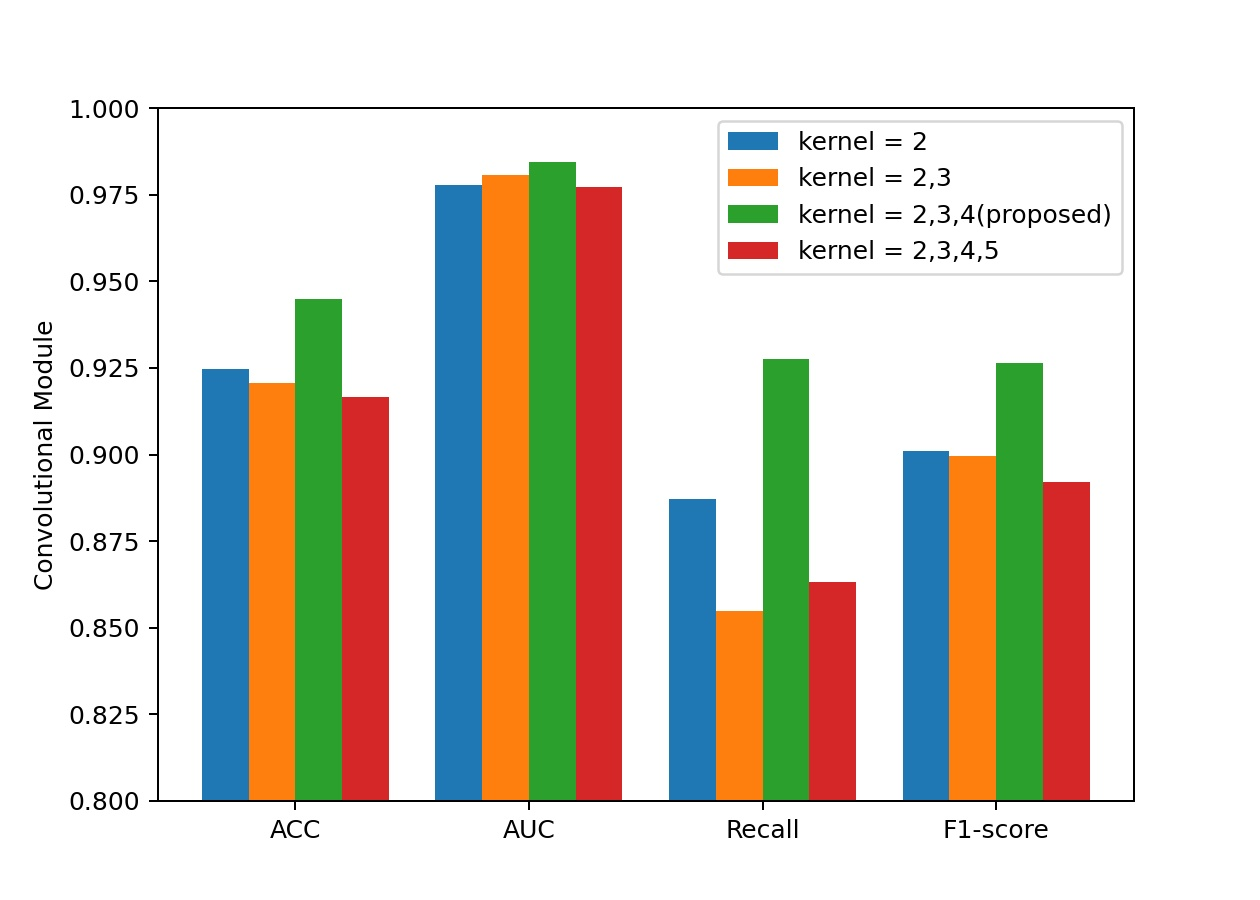
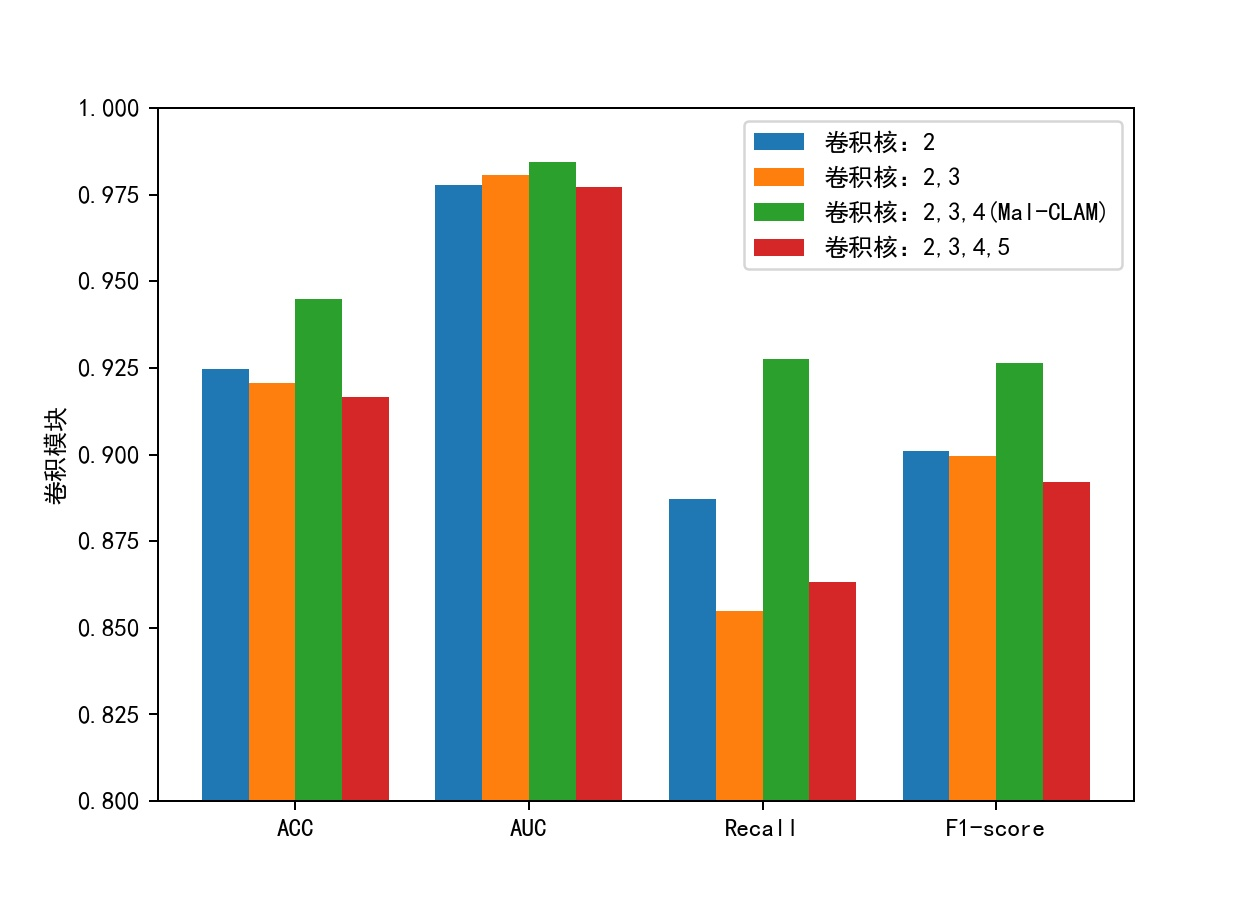
修改大论文后

diff --git a/model/modenl.py b/model/modenl.py
@@ -32,7 +32,7 @@ tf.compat.v1.keras.backend.set_session(tf.compat.v1.Session(config=config))
 # set_session(tf.compat.v1.Session(config=config))
 
 #超参数
-max_length = 500
+max_length = 1000
 
 class ClassifyGenerator(keras.utils.Sequence):
     'Generates data for Keras'
@@ -102,8 +102,6 @@ class Model():
         if model_path is None:
             self.params_input = Input(shape=(max_length, 102), name="input_layer")  # (?,1000,102)
 
-            # self.atten = Attention()([self.params_input,self.params_input])
-
             # 原来的模型
             self.x = BatchNormalization(name="batch_normalization_1")(self.params_input)
 
@@ -111,41 +109,42 @@ class Model():
             self.x_1 = Conv1D(128, 2, strides=1, activation="sigmoid", padding='same')(self.x)
             self.gated_0 = Multiply()([self.x_0, self.x_1])
 
-            self.y_0 = Conv1D(128, 3, strides=1, padding='same')(self.x)
-            self.y_1 = Conv1D(128, 3, strides=1, activation="sigmoid", padding='same')(self.x)
-            self.gated_1 = Multiply()([self.y_0, self.y_1])
-            # self.gated_1 = Average()([self.y_0, self.y_1])
+            # self.y_0 = Conv1D(128, 3, strides=1, padding='same')(self.x)
+            # self.y_1 = Conv1D(128, 3, strides=1, activation="sigmoid", padding='same')(self.x)
+            # self.gated_1 = Multiply()([self.y_0, self.y_1])
+            # # self.gated_1 = Average()([self.y_0, self.y_1])
+            #
+            # self.k_0 = Conv1D(128, 4, strides=1, padding='same')(self.x)
+            # self.k_1 = Conv1D(128, 4, strides=1, activation="sigmoid", padding='same')(self.x)
+            # self.gated_2 = Multiply()([self.k_0, self.k_1])
 
-            self.k_0 = Conv1D(128, 4, strides=1, padding='same')(self.x)
-            self.k_1 = Conv1D(128, 4, strides=1, activation="sigmoid", padding='same')(self.x)
-            self.gated_2 = Multiply()([self.k_0, self.k_1])
+            # self.cat_gate = Concatenate()([self.gated_0, self.gated_1, self.gated_2])
+            self.inputData = BatchNormalization(name="batch_normalization_2")(self.gated_0)
 
-            self.cat_gate = Concatenate()([self.gated_0, self.gated_1, self.gated_2])
-            self.inputData = BatchNormalization(name="batch_normalization_2")(self.cat_gate)
-
-            # 改进1  自编码器
-            # self.encode_input = Average()([self.params_input, self.inputData])
+            # # 改进1  自编码器
+            # # self.encode_input = Average()([self.params_input, self.inputData])
             self.encode_input = GlobalMaxPooling1D()(self.params_input)
-            self.encoder_1 = Dense(64, activation='sigmoid')(self.encode_input)
-            self.en_dropout_1 = Dropout(0.5)(self.encoder_1)
-            self.encoder_2 = Dense(16, activation='sigmoid')(self.en_dropout_1)
-            self.en_dropout_2 = Dropout(0.5)(self.encoder_2)
-            self.z_c = Dense(1)(self.en_dropout_2)
-
-            self.decoder_1 = Dense(16, activation='sigmoid')(self.z_c)
-            self.de_dropout_1 = Dropout(0.5)(self.decoder_1)
-            self.decoder_2 = Dense(64, activation='sigmoid')(self.de_dropout_1)
-            self.de_dropout_2 = Dropout(0.5)(self.decoder_2)
-            self.recon = Dense(102, activation='sigmoid')(self.decoder_2)
-
-            self.dist = Subtract()([self.encode_input, self.recon])
+            # self.encoder_1 = Dense(64, activation='sigmoid')(self.encode_input)
+            # self.en_dropout_1 = Dropout(0.5)(self.encoder_1)
+            # self.encoder_2 = Dense(16, activation='sigmoid')(self.en_dropout_1)
+            # self.en_dropout_2 = Dropout(0.5)(self.encoder_2)
+            # self.z_c = Dense(1)(self.en_dropout_2)
+            #
+            # self.decoder_1 = Dense(16, activation='sigmoid')(self.z_c)
+            # self.de_dropout_1 = Dropout(0.5)(self.decoder_1)
+            # self.decoder_2 = Dense(64, activation='sigmoid')(self.de_dropout_1)
+            # self.de_dropout_2 = Dropout(0.5)(self.decoder_2)
+            # self.recon = Dense(102, activation='sigmoid')(self.decoder_2)
+            #
+            # self.dist = Subtract()([self.encode_input, self.recon])
 
 
             # 原来是100，改成64
             self.x_lstm = Bidirectional(LSTM(100, return_sequences=True))(self.inputData)
+            # self.x_lstm = LSTM(units=100,return_sequences=True)(self.inputData)
             self.x_lstm_1D = GlobalMaxPooling1D(name="global_max_pooling1d")(self.x_lstm)
 
-            self.dense_1 = Concatenate()([self.x_lstm_1D, self.dist])
+            self.dense_1 = Concatenate()([self.x_lstm_1D, self.encode_input])
 
             # self.dense_1 = self.x_lstm_1D
             self.dense_2 = Dense(128, activation='relu')(self.dense_1)

diff --git a/model/plot_decrease.py b/model/plot_decrease.py
@@ -2,48 +2,51 @@
 import matplotlib
 import matplotlib.pyplot as plt
 import numpy as np
+from pylab import *
+mpl.rcParams['font.sans-serif']=['SimHei']
+mpl.rcParams['axes.unicode_minus']=False
 
 plt.figure(figsize=(7, 5), dpi=180)
 
 size = 5
 x = np.arange(size)
 
-before_f1 = [0.8199, 0.9074, 0.9063, 0.9153, 0.9263]
-after_f1 = [0.8011, 0.8662, 0.8884, 0.8718, 0.9111]
+before_f1 = [0.8199, 0.9074, 0.9063, 0.9153, 0.9363]
+after_f1 = [0.8011, 0.8662, 0.8884, 0.8718, 0.9179]
 
-before_acc = [0.8666, 0.9305, 0.9292, 0.9352, 0.9449]
-after_acc = [0.8499, 0.8917, 0.9150, 0.8973, 0.9344]
+before_acc = [0.8666, 0.9305, 0.9292, 0.9352, 0.9529]
+after_acc = [0.8499, 0.8917, 0.9150, 0.8973, 0.9410]
 
-before_Recall = [0.8289,0.9047, 0.8976,0.8954, 0.9275]
-after_Recall = [0.7946, 0.8055, 0.8738, 0.8181, 0.9245]
+before_Recall = [0.8289,0.9047, 0.8976,0.8954, 0.9338]
+after_Recall = [0.7946, 0.8055, 0.8738, 0.8181, 0.9275]
 
-before_AUC = [0.9334, 0.9797, 0.9774, 0.9833, 0.9843]
-after_AUC = [0.9205, 0.9665, 0.9516, 0.9627, 0.9681]
+before_AUC = [0.9334, 0.9797, 0.9774, 0.9833, 0.9889]
+after_AUC = [0.9205, 0.9665, 0.9516, 0.9627, 0.9750]
 
 plt.ylim(0.75, 1.0)
 total_width, n = 0.8, 5
 width = total_width / n
 x = x - (total_width - width) / 2
 
-plt.plot(x,before_Recall, marker = 'o', markersize = 4)
-plt.plot(x,after_Recall, marker = 'o', markersize = 4)
+plt.plot(x,before_AUC, marker = 'o', markersize = 4)
+plt.plot(x,after_AUC, marker = 'o', markersize = 4)
 
 # 在左侧显示图例
-plt.legend(['original','intervention'])
-for a,b in zip(x,before_Recall):
+plt.legend(['初始表现','干扰后表现'])
+for a,b in zip(x,before_AUC):
     plt.text(a, b , b ,ha = 'center',va = 'bottom', fontsize = 10)
-for a,b in zip(x,after_Recall):
+for a,b in zip(x,after_AUC):
     plt.text(a, b , b ,ha = 'center',va = 'top', fontsize = 10)
 
 # 设置标题
 # plt.title("Comparison of Precision and False Alarm Rate\n When Using Different Feature Schemes")
 # 为两条坐标轴设置名称
-plt.ylabel("Compare Recall")
+plt.ylabel("模型AUC值对比")
 
 aaa = ['Xing', 'Agrawal', 'Catak', 'Zhang','Mal-CLAM']
 bbb = range(5)
 plt.xticks(bbb, aaa)
 
-plt.savefig("Abation/robust_Recall.jpg")
+plt.savefig("Abation/robust_AUC.jpg")
 
 plt.show()

diff --git a/model/plot_AutoEncoder.py b/model/plot_AutoEncoder.py
@@ -2,6 +2,9 @@
 import matplotlib
 import matplotlib.pyplot as plt
 import numpy as np
+from pylab import *
+mpl.rcParams['font.sans-serif']=['SimHei']
+mpl.rcParams['axes.unicode_minus']=False
 
 plt.figure(figsize=(7, 5), dpi=180)
 
@@ -18,10 +21,10 @@ total_width, n = 0.8, 4
 width = total_width / n
 x = x - (total_width - width) / 2
 
-plt.bar(x, a, width=width, label='none AutoEncoder')
-plt.bar(x + width, b, width=width, label='AutoEncoder-2 Denses')
-plt.bar(x + width + width, c, width=width, label='AutoEncoder-3 Denses(proposed)')
-plt.bar(x + width + width + width, d, width=width, label='AutoEncoder-4 Denses')
+plt.bar(x, a, width=width, label='无自编码器')
+plt.bar(x + width, b, width=width, label='自编码器-2 密集层')
+plt.bar(x + width + width, c, width=width, label='自编码器-3 密集层(Mal-CLAM)')
+plt.bar(x + width + width + width, d, width=width, label='自编码器-4 密集层')
 
 # 在左侧显示图例
 plt.legend(loc="upper right",prop = {'size':9})
@@ -29,7 +32,7 @@ plt.legend(loc="upper right",prop = {'size':9})
 # 设置标题
 # plt.title("Comparison of Precision and False Alarm Rate\n When Using Different Feature Schemes")
 # 为两条坐标轴设置名称
-plt.ylabel("AutoEncoder Module")
+plt.ylabel("自编码器模块消融实验")
 
 aaa = ['ACC', 'AUC', 'Recall', 'F1-score']
 bbb = range(4)

diff --git a/model/plot_CNN.py b/model/plot_CNN.py
@@ -2,6 +2,9 @@
 import matplotlib
 import matplotlib.pyplot as plt
 import numpy as np
+from pylab import *
+mpl.rcParams['font.sans-serif']=['SimHei']
+mpl.rcParams['axes.unicode_minus']=False
 
 plt.figure(figsize=(7, 5), dpi=180)
 
@@ -19,10 +22,10 @@ total_width, n = 0.8, 4
 width = total_width / n
 x = x - (total_width - width) / 2
 
-plt.bar(x, a, width=width, label='kernel = 2')
-plt.bar(x + width, b, width=width, label='kernel = 2,3')
-plt.bar(x + width + width, c, width=width, label='kernel = 2,3,4(proposed)')
-plt.bar(x + width + width + width, d, width=width, label='kernel = 2,3,4,5')
+plt.bar(x, a, width=width, label='卷积核：2')
+plt.bar(x + width, b, width=width, label='卷积核：2,3')
+plt.bar(x + width + width, c, width=width, label='卷积核：2,3,4(Mal-CLAM)')
+plt.bar(x + width + width + width, d, width=width, label='卷积核：2,3,4,5')
 
 # 在左侧显示图例
 plt.legend(loc="upper right")
@@ -30,7 +33,7 @@ plt.legend(loc="upper right")
 # 设置标题
 # plt.title("Comparison of Precision and False Alarm Rate\n When Using Different Feature Schemes")
 # 为两条坐标轴设置名称
-plt.ylabel("Convolutional Module")
+plt.ylabel("卷积模块")
 
 aaa = ['ACC', 'AUC', 'Recall', 'F1-score']
 bbb = range(4)

diff --git a/model/plot-1.py b/model/plot-1.py
@@ -11,29 +11,18 @@ plt.figure(figsize=(7, 5), dpi=180)
 size = 4
 x = np.arange(size)
 #
-# a = [0.8666, 0.8289, 0.8199, 0.9344]
-# b = [0.9305, 0.9047, 0.9074, 0.9797]
-# c = [0.9292, 0.8976, 0.9063, 0.9774]
-# d = [0.9352, 0.8954, 0.9153, 0.9833]
-# e = [0.9449, 0.9275, 0.9263, 0.9843]
-#
-a = [0.8499, 0.7946, 0.8011, 0.9205]
-b = [0.8917, 0.8055, 0.8662, 0.9665]
-c = [0.9150, 0.8738, 0.8884, 0.9516]
-d = [0.8973, 0.8181, 0.8718, 0.9627]
-e = [0.9344, 0.9245, 0.9111, 0.9681]
+a = [0.9449, 0.9275, 0.9263, 0.9843]
+b = [0.9529, 0.9338, 0.9363, 0.9889]
 
 
 plt.ylim(0.75, 1.0)
-total_width, n = 0.8, 5
+total_width, n = 0.4, 2
 width = total_width / n
 x = x - (total_width - width) / 2
 
-plt.bar(x, a, width=width, label='Xing')
-plt.bar(x + width, b, width=width, label='Agrawal')
-plt.bar(x + width + width, c, width=width, label='Catak')
-plt.bar(x + width + width + width, d, width=width, label='Zhang')
-plt.bar(x + width + width + width + width, e, width=width, label='Mal-CLAM')
+plt.bar(x, a, width=width, label='未使用Attention')
+plt.bar(x + width, b, width=width, label='使用Attention')
+
 # 在左侧显示图例
 plt.legend(loc="upper left",prop = {'size':8})
 

diff --git a/model/plot_BiLSTM.py b/model/plot_BiLSTM.py
@@ -2,6 +2,9 @@
 import matplotlib
 import matplotlib.pyplot as plt
 import numpy as np
+from pylab import *
+mpl.rcParams['font.sans-serif']=['SimHei']
+mpl.rcParams['axes.unicode_minus']=False
 
 plt.figure(figsize=(7, 5), dpi=180)
 
@@ -19,9 +22,9 @@ width = total_width / n
 x = x - (total_width - width) / 2
 
 # plt.bar(x, a, width=width, label='LSTM')
-plt.bar(x + width, b, width=width, label='None Bi-LSTM')
-plt.bar(x + width + width, c, width=width, label='One Bi-LSTM(proposed)')
-plt.bar(x + width + width + width, d, width=width, label='Two Bi-LSTM')
+plt.bar(x + width, b, width=width, label='无 Bi-LSTM')
+plt.bar(x + width + width, c, width=width, label='一个 Bi-LSTM(Mal-CLAM)')
+plt.bar(x + width + width + width, d, width=width, label='两个 Bi-LSTM')
 
 # 在左侧显示图例
 plt.legend(loc="upper right")
@@ -29,7 +32,7 @@ plt.legend(loc="upper right")
 # 设置标题
 # plt.title("Comparison of Precision and False Alarm Rate\n When Using Different Feature Schemes")
 # 为两条坐标轴设置名称
-plt.ylabel("Bi-LSTM Module")
+plt.ylabel("双向长短时记忆网络模块")
 
 aaa = ['ACC', 'AUC', 'Recall', 'F1-score']
 bbb = range(4)

diff --git a/feature/DMDS.py b/feature/DMDS.py
@@ -297,7 +297,8 @@ class DMDS(object):
     def convert(self):
         processes = {}
         try:
-            procs = self.behaviour_report['behavior']['processes']
+            # procs = self.behaviour_report['behavior']['processes']
+            procs = self.behaviour_report['processes']
             for proc in procs:
                 process_id = proc['pid']
                 parent_id = proc['ppid']
@@ -333,9 +334,9 @@ class DMDS(object):
 
 
 if __name__ == '__main__':
-    file_name = '0FA68B45B3BFEEF29D14A8E5965F27A979A66A2E47AB9F5A896E651685906F92_388623_0'
-    input_path = "/Users/admin/Data/json/{0}.json"
-    output_path = "/Users/admin/Data/npy/{0}.npy"
+    file_name = '8FFCD330EDAEFAC6320E9D00D39EDBE2D396BCC5FE4D55EFC1D5082B78E9500D_180252_1'
+    input_path = "D:/test/{0}.json"
+    output_path = "D:/test/{0}.npy"
     dmds = DMDS(file_name, input_path, output_path, 1000, 40)
     if dmds.parse() and dmds.convert():
         dmds.write()
